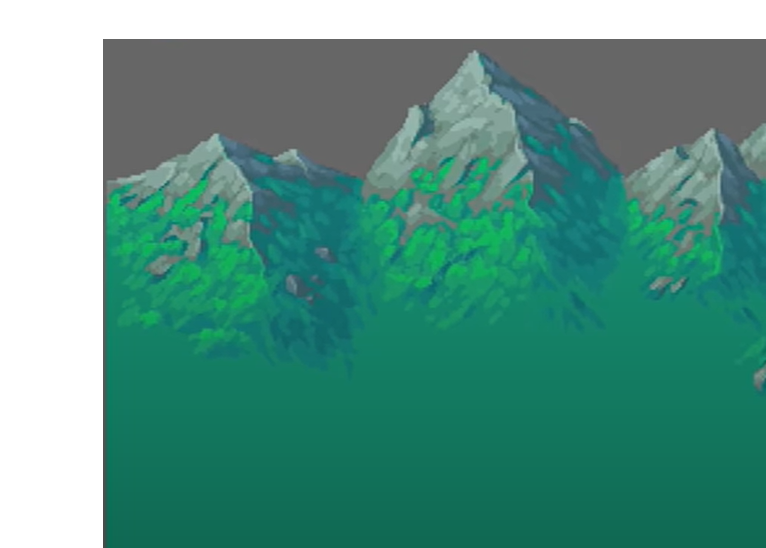
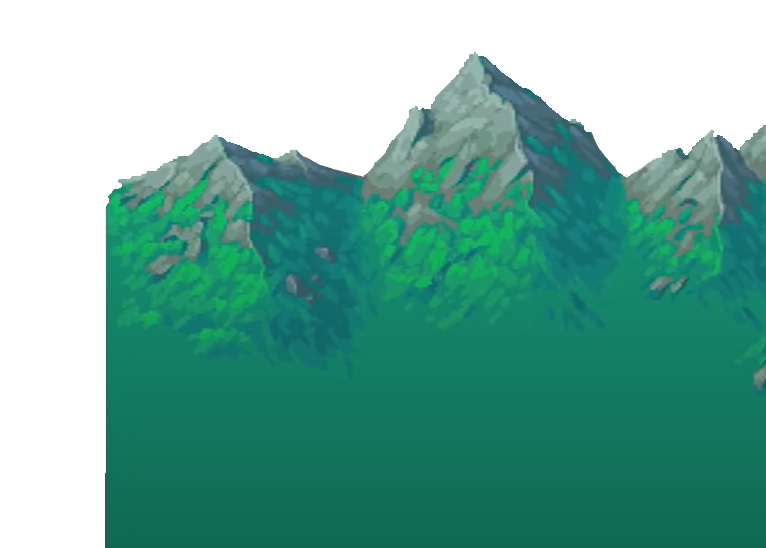
added particles, weather system and layer rendering
implemented basic particles, rain that renders in between the foreground and background and an efficient layer iteration system that brought a few errors with it

Changed region(s): [[0.1201, 0.062, 1.0, 0.8686]]

diff --git a/sandbox.py b/sandbox.py
@@ -2,13 +2,9 @@ import sys, os, random
  
 import pygame
 from pygame.locals import *
-
-
 from project import *
 from entity import *
-from game_world import * 
-
-
+ 
 pygame.init()
  
 fps = 60
@@ -35,7 +31,7 @@ treeline = 508
 # (AREA) Entity Initialisation 
 skybox = Entity(0,-50, "assets/bluesky_1.jpg")
 
-hills = Entity(850,560, "assets/hills_3.png")
+hills = Entity(850,499, "assets/hills_3.png")
 
 #mountain = Entity(850, 499, "assets/grassy_mountain_1.png")
 
@@ -85,9 +81,6 @@ def event_system():
         if event.type == QUIT:
             pygame.quit() 
             sys.exit() 
-        if keys[pygame.K_ESCAPE]:
-            pygame.quit() 
-            sys.exit() 
         if event.type == VIDEORESIZE:
             window = pygame.display.set_mode((width, height), pygame.RESIZABLE)
         if keys[pygame.K_F11]:
@@ -101,9 +94,19 @@ def event_system():
 particles = []
 particles_2 = []
 
+layer_hierachy = {
+    1 : sky,
+    2 : background, 
+    3 : foreground 
+}
 
 
-def create_particles():
+def render_window(window, dt, layer_data):
+    for layer in layer_data:
+        render_layer = layer_data[layer]
+        render_layer.draw(window)
+        render_layer.update()
+
     x = random.randint(120, 200)
     #y = random.randint(180, 200)
     y = 400
@@ -118,45 +121,6 @@ def create_particles():
         if particle[2] <= 0:
             particles.remove(particle)
 
-
-def tree_leaves(x = random.randint(120, 200),y = random.randint(180, 200)):
-    particles.append([[x, y], [1,1], 2.5])
-    for particle in particles:
-        particle[0][0] += particle[1][0]
-        particle[0][1] += particle[1][1]
-        particle[2] -= 0.1
-        particle[1][1] += 0.1
-        pygame.draw.circle(window, (0, 180, 0), [int(particle[0][0]), int(particle[0][1])], int(particle[2]))
-        if particle[2] <= 0:
-            particles.remove(particle)
-
-
-
-layer_hierachy_bg = {
-    1 : sky,
-    2 : background
-}
-layer_hierachy_fg = {
-    1 : foreground 
-}
-
-# (NOTE) Quick fix to multiple layer iteration rendering issue
-def update_frame(layer,window):
-    layer.draw(window)
-    layer.update()
-
-weather_handler = weather(None, window)
-
-
-
-def render_window(window, dt, layer_data_1, layer_data_2):
-    for layer in layer_data_1:
-        render_layer = layer_data_1[layer]
-        render_layer.draw(window)
-        render_layer.update()
-    #weather_handler.change_weather("rain", skybox,"assets/dark_sky_1.png")
-    update_frame(foreground,window)
-
     pygame.display.flip()
 
 
@@ -168,6 +132,6 @@ dt = 1/fps
 # Game loop.
 while True:
     event_system()
-    render_window(window, dt, layer_hierachy_bg, layer_hierachy_fg)
+    render_window(window, dt, layer_hierachy)
     dt = fpsClock.tick(fps)
 pygame.quit()

diff --git a/game_world.py b/game_world.py
@@ -1,0 +1,57 @@
+import pygame, random, os, sys
+import entity
+# (NOTE) Abstract terrain content from main file into here
+
+'''class terrain:
+    def __init__(self):
+        pass'''
+particles = []
+
+def rain(window):
+    x = random.randint(120, 1000)
+    y = random.randint(180, 200)
+    #y = 400
+    #particles.append([[x, y], [1,1], 2.5])
+    particles.append([[x, y], [1,1], 3])
+ 
+    for particle in particles:
+        particle[0][0] += particle[1][0]
+        particle[0][1] += particle[1][1]
+        particle[2] -= 0.1
+        particle[1][1] += 0.1
+        pygame.draw.circle(window, (0, 20, 100), [int(particle[0][0]), int(particle[0][1])], int(particle[2]))
+        if particle[2] <= 0:
+            particles.remove(particle)
+
+def custom_particles(window, time_pf, x_range, y_range, colour):
+    x = random.randint(120, 1000)
+    y = random.randint(180, 200)
+    #y = 400
+    #particles.append([[x, y], [1,1], 2.5])
+    particles.append([[x, y], [1,1], 3])
+ 
+    for particle in particles:
+        particle[0][0] += particle[1][0]
+        particle[0][1] += particle[1][1]
+        particle[2] -= time_pf
+        particle[1][1] += 0.1
+        pygame.draw.circle(window, colour, [int(particle[0][0]), int(particle[0][1])], int(particle[2]))
+        if particle[2] <= 0:
+            particles.remove(particle)
+
+        
+class weather:
+    def __init__(self, curr_weather, window):
+        self.curr_weather = curr_weather
+        self.window = window
+    def change_weather(self, weather_type, sky, new_sky):
+        self.sky = sky
+        self.weather_type = weather_type
+        if self.weather_type == "rain":
+            sky.swapSprite(new_sky)
+            x_range = random.randint(120, 1000)
+            y_range = y = random.randint(180, 200)
+            colour = (0, 20, 100)
+            #rain(self.window)
+            custom_particles(self.window, 0.01, x_range, y_range, colour)
+        # Change Background 

diff --git a/documentation/Forest Digital Garden/optimization/rendering introspection.md b/documentation/Forest Digital Garden/optimization/rendering introspection.md
@@ -1,0 +1,4 @@
+## Rendering Optimization
+- Similar to code introspection
+- The draw window function parameters will include an array or dictionary of layers (dictionary's could allow for a more streamline/implicit ordering system), it would then iterate through the array and draw the layers and update them every frame
+- Framerate Independence 

diff --git a/documentation/Forest Digital Garden/optimization/scene abstraction for easier control.md b/documentation/Forest Digital Garden/optimization/scene abstraction for easier control.md
@@ -1,0 +1,5 @@
+## Scene
+- Class is comprised of
+	> Scene Name - Window Name
+	> Layer Data 
+	> Default Settings - Res, Framerate
